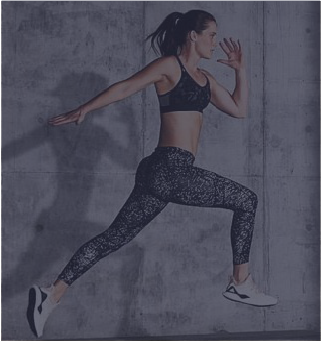
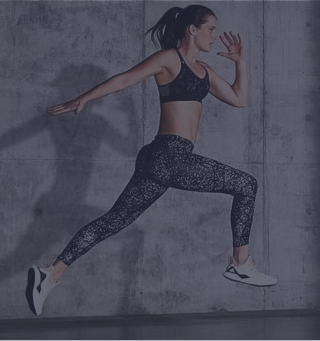
se agregan cambios para cambiar de compu

diff --git a/styles.css b/styles.css
@@ -171,6 +171,7 @@ h1 {
 
 /******************************* CLASES *******************************/
 #class {
+    background-color: #2B2D42;
     height: 440px;
 }
 
@@ -216,18 +217,18 @@ h1 {
 }
 
 #crossfit {
-    background-image: url(./1x/Recurso\ 7.png);
+    background-image: url(./1x/Recurso\ 7.jpg);
 }
 
 #functional {
-    background-image: url(./1x/Recurso\ 8.png);
+    background-image: url(./1x/Recurso\ 8.jpg);
 }
 
 #cardio {
     background-image: url(./1x/Recurso\ 9.png);
 }
 #zumba {
-    background-image: url(./1x/Recurso\ 10.png);
+    background-image: url(./1x/Recurso\ 10.jpg);
 }
 
 #functional, #cardio, #zumba {
@@ -269,4 +270,8 @@ h1 {
     background: url(./1x/Recurso\ 11.png) no-repeat;
     background-position: 50% 125%;
     border-top: 177px solid transparent;
+}
+
+#class-galery a{
+    background: url(./1x/Recurso\ 12.png) no-repeat;
 }
